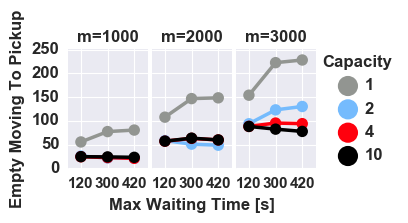
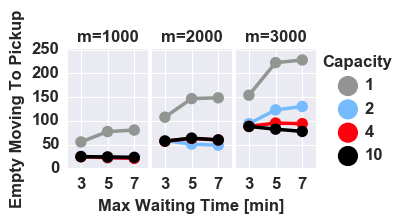
New figures

diff --git a/scripts/plot_metrics.py b/scripts/plot_metrics.py
@@ -315,11 +315,11 @@ def make_avg_plots(big_d, plot_type):
                             make_vec_title,
                             fields + ["n_shared_per_passenger"]),
                    "wts": (vehicles, "vehicles", "waiting_time",
-                           "Max Waiting Time [s]", waiting_times,
+                           "Max Waiting Time [min]", [3, 5, 7],
                            make_wt_title,
                            fields + ["n_shared_per_passenger"]),
                    "comp_times": (vehicles, "vehicles", "waiting_time",
-                                  "Max Waiting Time [s]", waiting_times,
+                                  "Max Waiting Time [s]", [3, 5, 7],
                                   make_wt_title, ["comp_time"])}
     iover, qstr, xcol, xlabel, xticklabels, tfunc, fs = plot_params[plot_type]
     for field in fs:
@@ -625,7 +625,7 @@ if __name__ == "__main__":
 
     matplotlib.rc("axes", labelsize=12)
     matplotlib.rc("axes", titlesize=12)
-    matplotlib.rc("xtick", labelsize=11)
+    matplotlib.rc("xtick", labelsize=12)
     matplotlib.rc("ytick", labelsize=12)
     matplotlib.rc("legend", fontsize=12)
 
@@ -685,8 +685,8 @@ if __name__ == "__main__":
     #     for wt in [120, 420]:
     #         make_ts_plot(vecs, wt, 0, "mean_passengers")
 
-    make_all_ts_area_plots()
-    make_all_ts_area_single_plots()
+    # make_all_ts_area_plots()
+    # make_all_ts_area_single_plots()
     # make_ts_area_plot(1000, 1, 120, 0)
     # make_ts_area_plot_single(1000, 2, 120, 0, 1)
     # make_ts_plot(1000, 120, 0, "mean_passengers")
